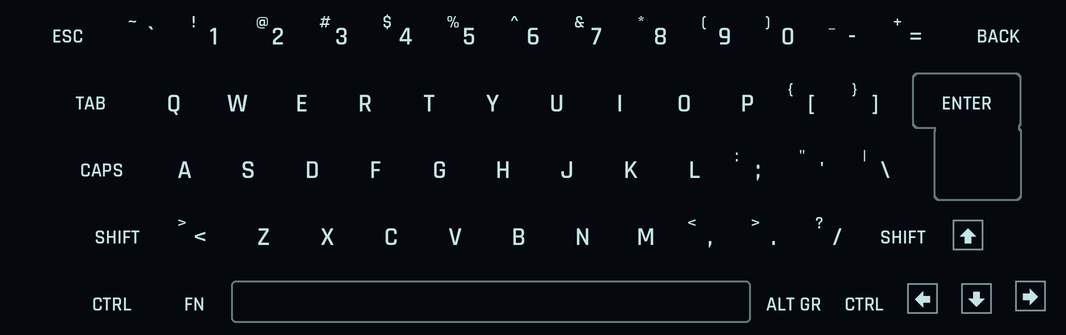
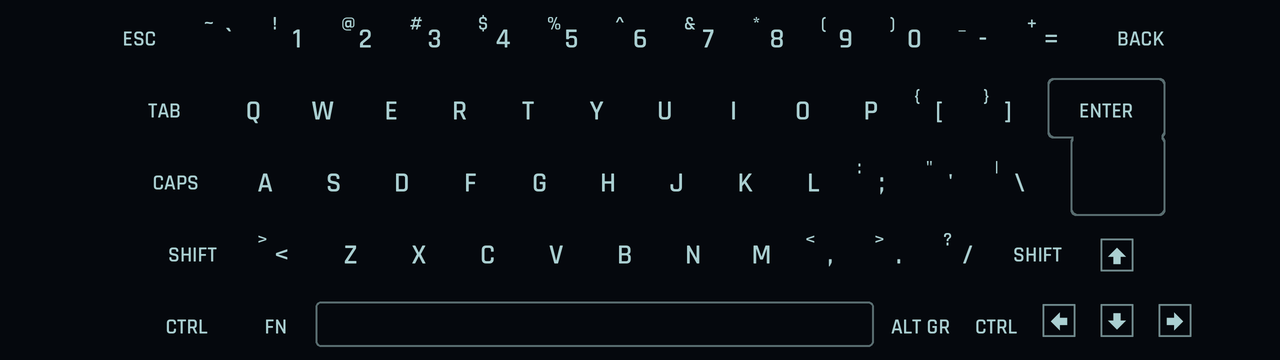
Complete local alpha review and refresh public previews

diff --git a/tests/test_provenance.py b/tests/test_provenance.py
@@ -18,5 +18,11 @@ class ProvenanceTest(unittest.TestCase):
                 actual=hashlib.sha256((ROOT/path).read_bytes()).hexdigest()
                 self.assertEqual(actual,row['sha256'])
 
+    def test_bundled_font_and_license_digests(self):
+        folder=ROOT/'assets/fonts'
+        for row in json.loads((folder/'SOURCE.json').read_text())['files']:
+            with self.subTest(path=row['path']):
+                self.assertEqual(hashlib.sha256((folder/row['path']).read_bytes()).hexdigest(),row['sha256'])
+
 
 if __name__=='__main__':unittest.main()

diff --git a/docs/ALPHA-REVIEW.md b/docs/ALPHA-REVIEW.md
@@ -1,0 +1,31 @@
+# Local alpha review
+
+Review date: 2026-10-26. Baseline: main at 6e82729. Scope: the experiment branch through its packaging checkpoints, plus the final provenance and documentation changes in this review.
+
+Outcome: no remaining blocker found in the reviewed single-client local workflow. The draft v0.1.0-alpha.1 notes keep popup movement, remote transport and untested input paths outside its tested scope. Main remains unchanged.
+
+## Runtime and package paths
+
+| Area | Review and evidence |
+| --- | --- |
+| Entry point and session selection | Reviewed app.py, launch.py and workspace bindings. Argument lists preserve path boundaries. Controls select the named server and retain its transport. Isolation tests cover overlapping servers and a server that predates launch. |
+| Shell and input preservation | Reviewed workspace locking, slot switching and keyboard routing. The keyboard checks the selected shell's random token and pauses behind a modal. Recorder tests exercise taps without executing input. Resize and installed-upgrade checks preserve native shell PIDs. |
+| File navigation | The branch retains the native Yazi action model; its Lua change adjusts colors. Reviewed navigator and icon routing, including same-user character-terminal checks and the file pane's disabled passthrough. Existing grid navigation and file activation checks pass. |
+| Graphics and frame cleanup | Reviewed bounded temporary-file transfer, image-scoped deletion, metadata heartbeats, frame masking and bootstrap recovery. Tests cover stalled consumption and cleanup. Direct-transfer reattach remains a known limitation. |
+| Layout and raster work | Reviewed reflow, keyboard geometry, palette roles and the globe/text caches. Resize integration checks and pixel comparisons support those changes. Runtime Pillow internals retain a tested public fallback. |
+| Package contents | Reviewed the explicit runtime module list, resource selection, entry point and license placement. Runtime staging excludes tests, capture collections, Git metadata and diagnostic probes. The clean build imports all 20 installed modules and verifies the declared artifacts. |
+| Development-only code | The standalone border probe and profiler remain in source for reproduction. The installed package excludes them; it includes border_frame.py because the shell frame imports its geometry helpers. |
+
+The prior full integration runs, clean Arch build and installed-upgrade results appear in validation. This review does not expand those checks into support for other clients or transports.
+
+## Corrections from review
+
+The earlier package-lint pass found a license-directory mismatch. Commit 10e766a corrected it to the actual preview package name, and the clean-build and upgrade checks verified the migration.
+
+The final asset pass found two stale derived-source hashes from CRLF working copies: keyboard CSS and the keyboard class. We corrected them using the pinned upstream Git blobs. We also added bundled digests for the measured keyboard geometry and arrow data, and added verification for the three fonts and OFL file. The checks now cover 37 bundled artifacts. These changes alter metadata and test coverage, not asset pixels or layout data.
+
+We replaced the older README layout image with a cropped capture from the current interface. A private capture fixture supplied synthetic counters, a neutral shell and sample files. The renderer and input/layout code stayed unchanged. The caption identifies the fixture data. We inspected the image for private addresses, machine paths and personal file listings; its PNG metadata contains no additional fields. The separate keyboard image comes from the current renderer. Neither capture proves performance or physical touch support.
+
+## Publication boundary
+
+The release notes and current screenshots are ready for a local alpha. The existing -git recipe tracks the experiment branch; a fixed release recipe and source archive must identify the exact reviewed commit before a tag or public package. No merge, tag or AUR submission has occurred. Follow RELEASE-CHECKLIST.md for the publication steps.

diff --git a/docs/releases/v0.1.0-alpha.1.md b/docs/releases/v0.1.0-alpha.1.md
@@ -1,0 +1,48 @@
+# v0.1.0-alpha.1
+
+Draft release notes. We have prepared this local alpha for review; no tag, GitHub release or AUR submission exists yet.
+
+eDEX-UI TUI reconstructs parts of eDEX-UI with native tmux shells, Kitty graphics and Yazi. We use the security-patched upstream as the visual reference. This release does not claim an exact reconstruction of the film interface.
+
+## Included
+
+- Five shell slots that preserve their processes and working directories when switching.
+- Live Linux System and Network instruments, the upstream globe mesh and memory grid.
+- Shared dotted background with an opaque terminal viewport; an opt-in clipped shell frame.
+- An optional keyboard with shifted legends, original arrow artwork, larger geometry and aligned Up/Down keys. Single taps use sticky modifiers.
+- An isolated Yazi icon grid: arrows move through the grid, Enter opens, and Backspace goes up. See the full [file navigation guide](../FILE-NAVIGATION.md).
+- Native process details through top, with popup focus protection for on-screen input.
+- A dedicated local Kitty launcher and Arch package staging that leave normal user configs alone.
+
+## Tested workflow
+
+Use one local Kitty client with at least 140 columns by 40 rows. Kitty and the instrument workers must share the filesystem for tempfile graphics. The launcher selects that mode for its dedicated window. The keyboard starts hidden and the instruments target 24 FPS.
+
+We reviewed Omarchy with Kitty 0.49.2, tmux 3.8, Python 3.14, Pillow 12.3 and Yazi 26.9.1. We also tested Ubuntu 24.04 with Kitty 0.32.2, tmux 3.4, Python 3.12 and Pillow 10.2 under WSLg. This first package targets Arch; we provide no Debian package.
+
+From the source checkout, run python3 app.py. With the Arch package installed:
+
+```sh
+edex-ui-tui --cwd "$HOME"
+# Controls from another terminal, using the same socket selector if you set one:
+edex-ui-tui --toggle-keyboard
+edex-ui-tui --install-shell-frame
+```
+
+After Ctrl-b, press 1–5 to switch shells, Shift-K to toggle the keyboard, Shift-P for process details, z to zoom or d to detach. Press q or Escape inside process details to close it. Read the [README](../../README.md) for argument and dependency details.
+
+Before an upgrade, finish shell work and stop the project session with edex-ui-tui --stop. Stopping ends its shells. File replacement does not reload Python workers; launch a new session after upgrading.
+
+## Limits
+
+The native process popup remains rectangular. Its frame mask tracks the opening rectangle; moving or resizing it can expose overlap. The clipped shell frame remains opt-in.
+
+Direct graphics transfer has known reattach failures. Multiple clients, mobile SSH clients, Mosh graphics and physical touch remain outside the tested workflow. Physical typing does not light up the keyboard. Multi-touch and held-key repeat are incomplete.
+
+Rajdhani approximates the upstream display font. Startup choreography and audio remain incomplete, and the grid tile uses an integer approximation for a 1080px reference height. We have not established a performance advantage over Electron. Higher FPS targets are optional and do not guarantee displayed frame pacing.
+
+## Validation and credits
+
+The integration suites passed on both reviewed distros. We checked actual window resizing, a second font scale, raster equivalence and a ten-minute local run. The Arch recipe passed a clean chroot build, installed upgrade, graphical restart and removal. Read [validation](../VALIDATION.md) for the exact candidates and remaining limits, including package-lint warnings.
+
+GitSquared and the eDEX-UI contributors created the original interface; the security-patched fork supplies our pinned reference. We retain GPL, BSD and bundled OFL notices. Read [NOTICE.md](../../NOTICE.md) and [UPSTREAM.json](../../UPSTREAM.json). We distribute no commercial fonts.

diff --git a/README.md b/README.md
@@ -4,7 +4,7 @@ An eDEX-UI reconstruction for Linux terminals, using Kitty graphics and tmux.
 
 ![eDEX-UI TUI running in an Omarchy VM, with system and network instruments, shell tabs, Yazi, and the optional keyboard](docs/images/omarchy-preview.png)
 
-Omarchy VM preview with the optional keyboard open.
+Current layout with the optional keyboard and clipped frame. We captured a separate Omarchy session using fixture counters and sample files.
 
 I’m a TRON fan, and I remember how exciting eDEX-UI felt when it first appeared. After spending a few months with Omarchy, I wanted to bring that interface into the terminal. I built this prototype with AI assistance and existing tools, and I’m opening it up for feedback and collaboration. I’m a student with some programming experience; I’m still learning UI design.
 
@@ -96,7 +96,7 @@ The browser keeps its own directory. It does not change shell directories. The o
 
 ## What needs work
 
-Read the [interface roadmap](docs/INTERFACE-ROADMAP.md) for the upstream dotted background, pop-out detail views, and border integration plan.
+Read the [interface roadmap](docs/INTERFACE-ROADMAP.md) for remaining popup, remote-client and visual work. The [draft alpha notes](docs/releases/v0.1.0-alpha.1.md) state the tested local workflow and its limits.
 
 On `experiment/kitty-borders`, try the application-specific dotted preset:
 

diff --git a/docs/RELEASE-CHECKLIST.md b/docs/RELEASE-CHECKLIST.md
@@ -17,6 +17,8 @@ Namcap has no remaining errors. Its warnings cover private-directory Python impo
 
 ## Remaining release work
 
+The [final alpha review](ALPHA-REVIEW.md) covers the experiment diff, package contents and current screenshots. The [draft release notes](releases/v0.1.0-alpha.1.md) define the local workflow and retain popup movement, remote graphics and untested input limitations. Review preparation is complete; merging, tagging and publication remain separate steps below.
+
 1. Review the experiment diff against main. Check session isolation, file opening, graphics cleanup and the package file list. Keep private captures, credentials, commercial fonts and local deployment records out of release artifacts.
 2. Review the public screenshots and usage text against the final candidate. Existing screenshots predate some layout changes. Replace them only with captures that omit private paths, addresses and file listings.
 3. Review the first alpha's scope. The tested path is one local Kitty client on a shared filesystem with tempfile graphics. The native process popup remains rectangular; its frame mask tracks the opening rectangle and does not establish correct occlusion while moving or resizing it.
